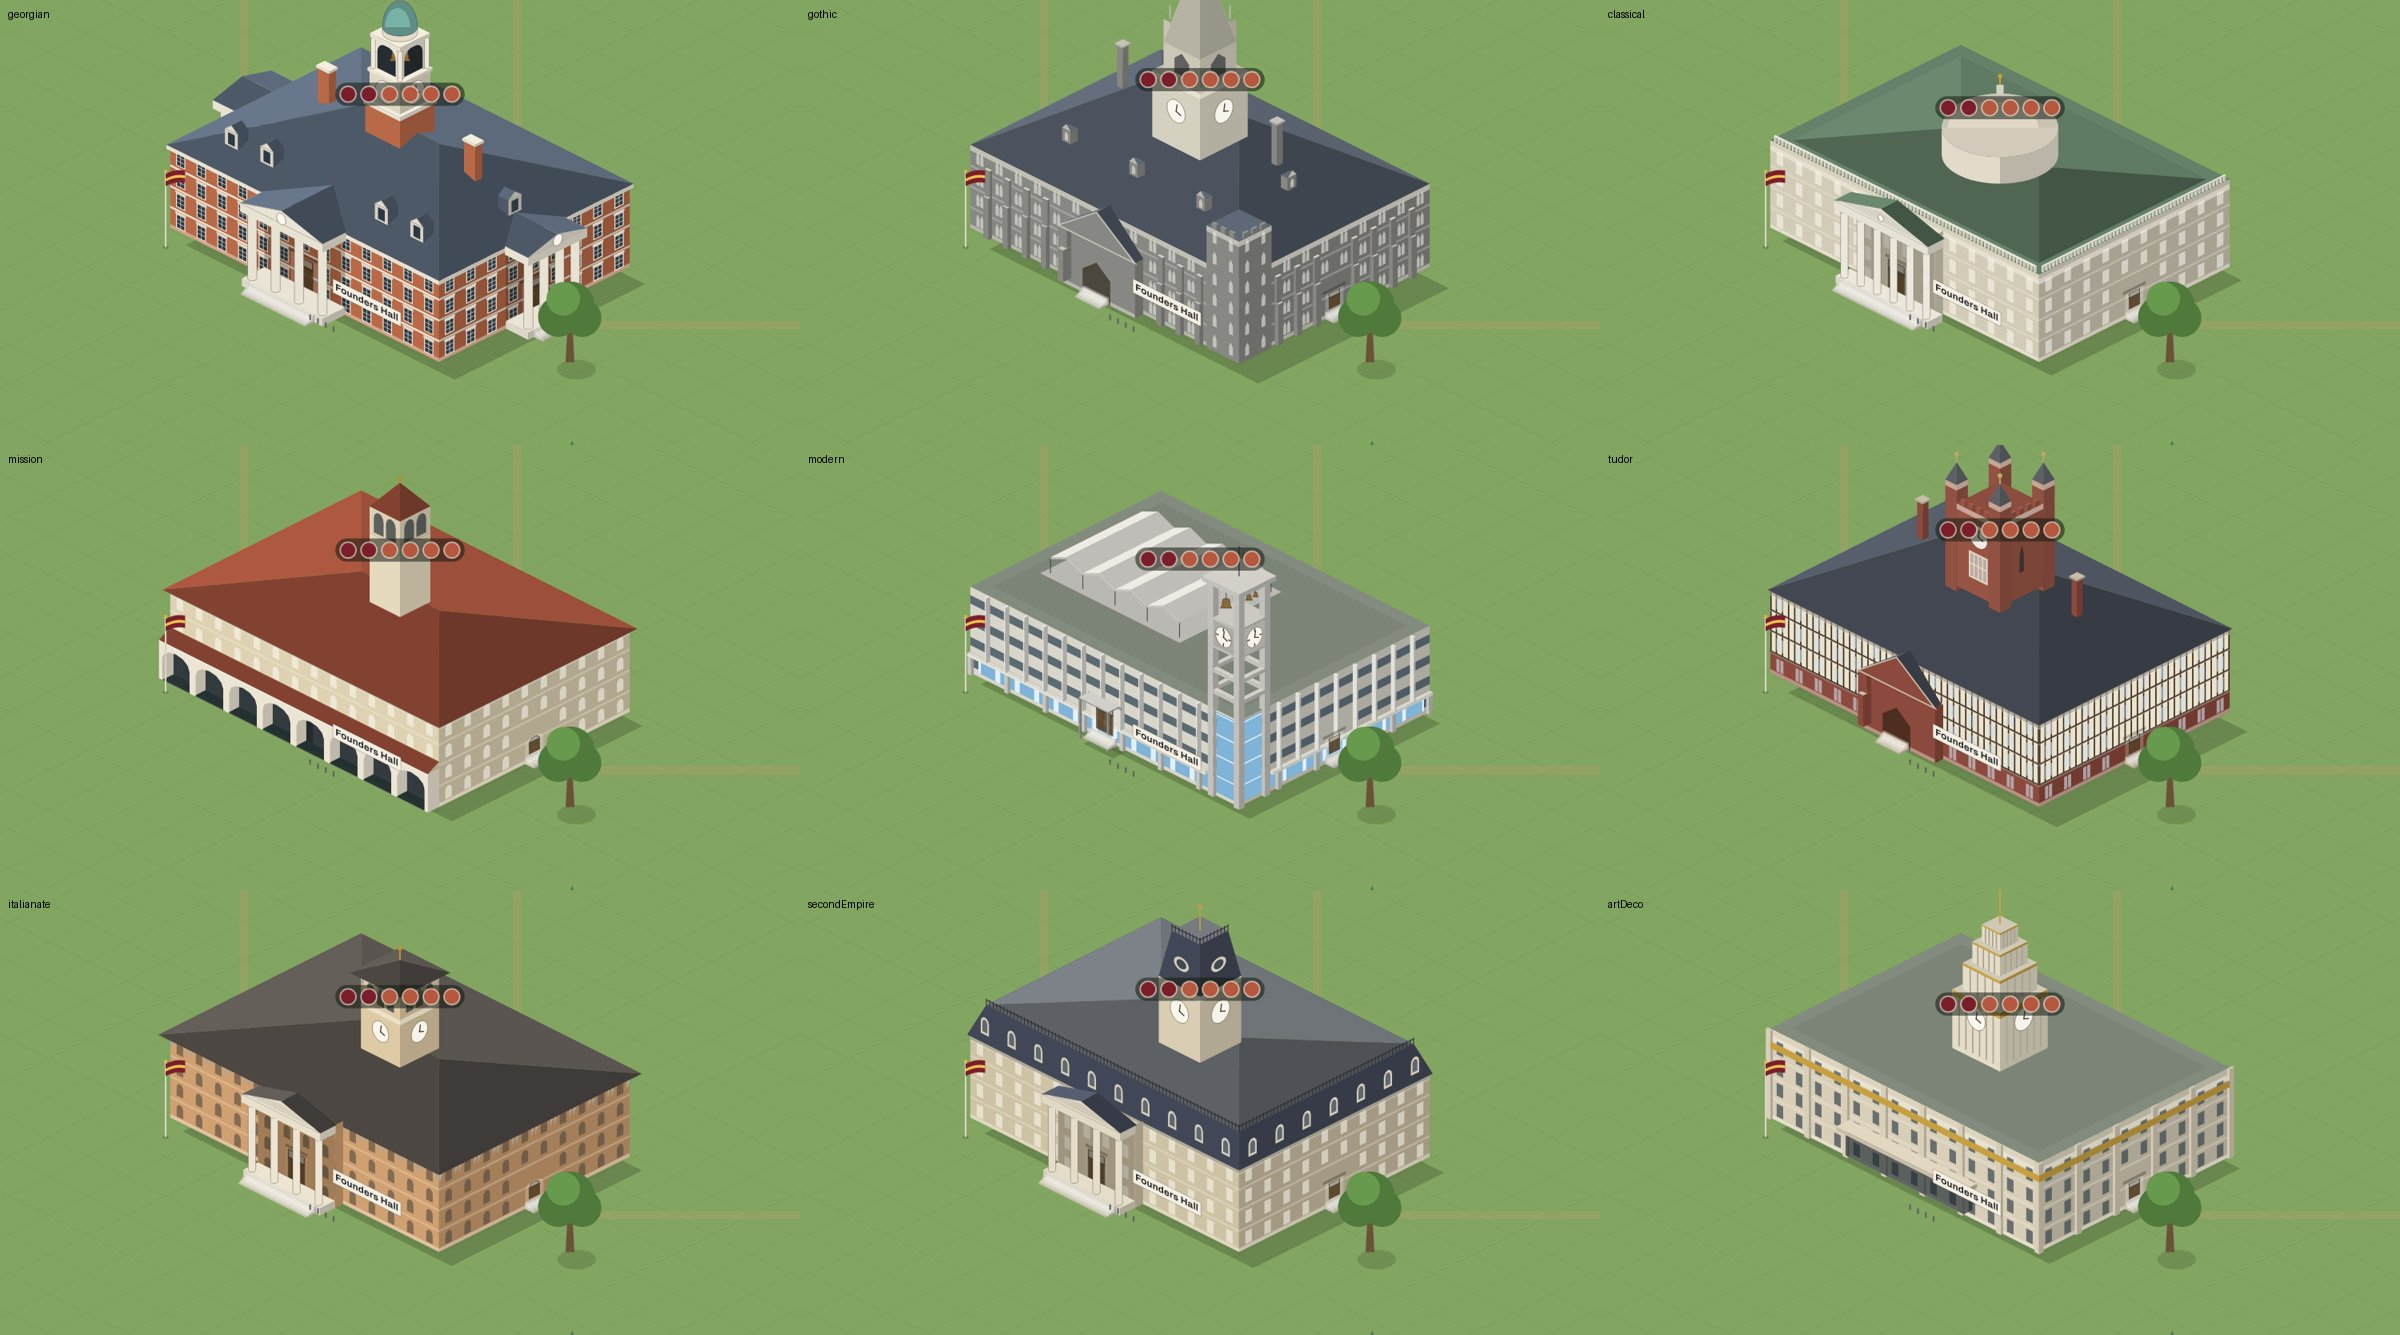
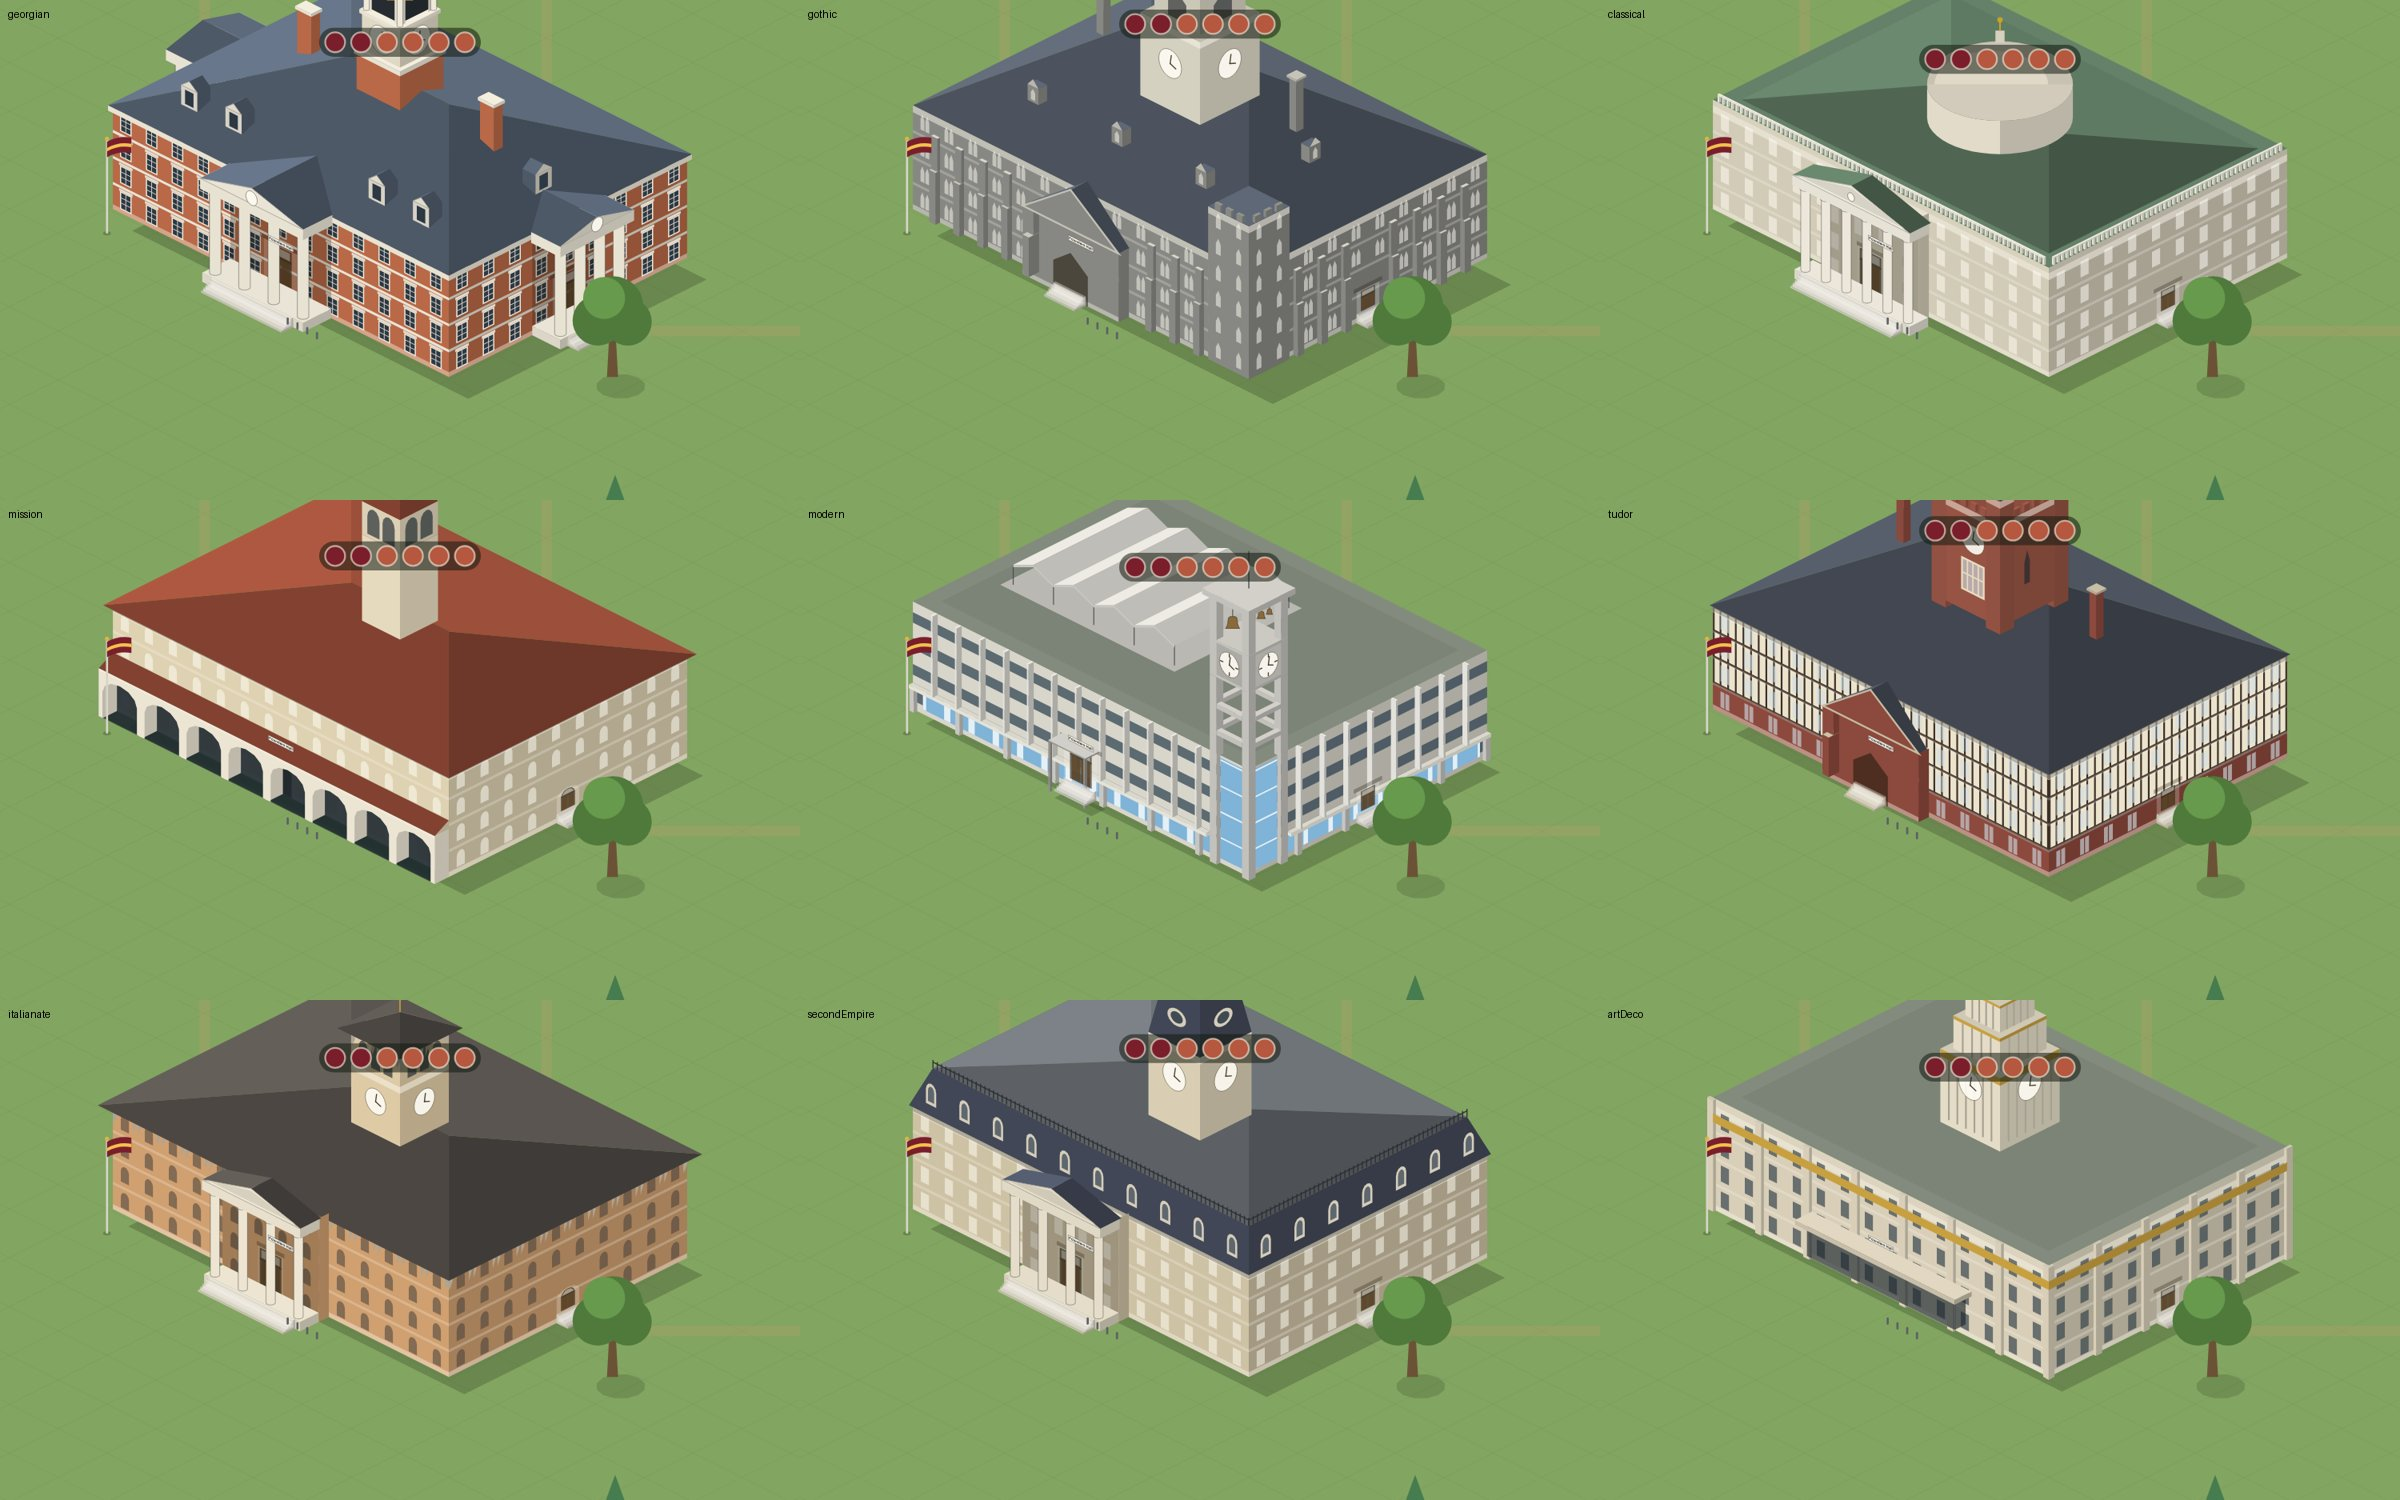
Plan 99D: the plate over the door, centred and small (the owner's call)
Claude-Session: https://claude.ai/code/session_016qdqgCsiwK5wDmUcnZF6yE

diff --git a/unischool/src/components/doorSign.tsx b/unischool/src/components/doorSign.tsx
@@ -4,8 +4,8 @@ import { doorOf, wallHeightOf } from './buildingSpec';
 import { sidesOf } from './facing';
 import type { Plot } from './facing';
 
-// Door signs (Plan 99D): a small plate on the wall beside a building's front
-// door, with its name. Drawn with the building, so it sorts with it and a
+// Door signs (Plan 99D): a small plate on the wall over a building's front
+// door, centred, with its name. Drawn with the building, so it sorts with it and a
 // building in front hides it; only on the front wall, and only while the
 // camera sees that wall. Buildings with no front door (open ground, the
 // stadium, the village, the landmarks: doorOf's null) get none.
@@ -20,9 +20,6 @@ export const SIGNS_FROM_ZOOM = 1.4;
 // The most characters a plate holds before its name is cut with an
 // ellipsis, and the plate's size in a wall's own units.
 export const SIGN_MAX_CHARS = 22;
-// Tiles between the door's edge and the plate: clear of a porch or a
-// portico's side where the wall has room, else close by the door.
-const SIGN_GAPS = [0.5, 0.15];
 const CHAR_WIDTH = 0.56;          // a character's width, in font sizes (the UI's sans)
 
 export function signText(name: string): string {
@@ -41,26 +38,24 @@ export default function DoorSign({ t, p, label }: { t: Buildable; p: Plot; label
   if (!wall.visible) return null;
   const span = front === 'posRow' || front === 'negRow' ? p.w : p.h;
   const text = signText(label);
-  // The letters at a third of the door's height; the plate a little larger.
-  const size = Math.max(3.2, door.height * 0.32);
-  const plateW = text.length * CHAR_WIDTH * size + size;
   const run = Math.hypot(wall.along.x - wall.origin.x, wall.along.y - wall.origin.y);
   if (run <= 0) return null;
+  // Small: a detail of the building, not something to read from afar (the
+  // owner, 13 October). No wider than the door, so it stays in the door's
+  // bay: between a portico's middle columns, under a porch's gable. Long
+  // names take smaller letters; the plate is a little larger than them.
+  const doorW = (Math.min(door.widthTiles / span, 0.6)) * run;
+  const size = Math.min(door.height * 0.12, (doorW * 1.15) / (text.length * CHAR_WIDTH + 0.8));
+  if (size < 0.8) return null; // too small to be a sign
+  const plateW = text.length * CHAR_WIDTH * size + size * 0.8;
   const uw = plateW / run;
-  // Beside the door, on the side nearer the screen's right.
-  const doorHalf = Math.min(door.widthTiles / span, 0.6) / 2;
-  const right = wall.along.x >= wall.origin.x;
-  const fits = (gap: number) => {
-    const near = 0.5 + doorHalf + gap / span;
-    const lo = right ? near : 1 - near - uw;
-    return lo >= 0.02 && lo + uw <= 0.98 ? lo : null;
-  };
-  const u0 = SIGN_GAPS.map(fits).find((u) => u !== null);
-  if (u0 === undefined || u0 === null) return null; // no room beside the door on this wall
-  const u1 = u0 + uw;
-  const vMid = (door.threshold + door.height * 0.55) / H;
-  const vh = (size * 1.5) / H / 2;
-  if (vMid + vh > 0.95) return null;
+  // Centred over the door, just above its head (the door is at the front's
+  // middle).
+  const u0 = 0.5 - uw / 2;
+  const u1 = 0.5 + uw / 2;
+  const vh = (size * 1.4) / H / 2;
+  const vMid = (door.threshold + door.height + size * 0.5) / H + vh;
+  if (vMid + vh > 0.97) return null; // no wall above the door for it
   const at = (u: number, v: number) => facePoint(wall.origin, wall.along, H, u, v);
   const a = at(u0, vMid - vh); const b = at(u1, vMid - vh); const c = at(u1, vMid + vh); const d = at(u0, vMid + vh);
   const mid = at((u0 + u1) / 2, vMid);

diff --git a/docs/plans/099-a-gazebo-and-door-signs.md b/docs/plans/099-a-gazebo-and-door-signs.md
@@ -207,13 +207,15 @@ Read against `main` at `9cec56b` plus PR #341.
   building's own drawing, so it depth-sorts with it and a building in
   front hides it. Both maps draw it: the canvas map walks the same element
   tree. It's not in the build-menu thumbnails.
-- **Where on the wall:** the front wall (`sidesOf(facing).front`, by
-  `wallOf`), only while the camera sees it. It sits half a tile clear of
-  the door's edge, so it clears most porches and portico sides, else just
-  beside the door. It goes on the side toward the screen's right, at the
-  door's mid-height, sheared to the wall's slope like the chapter
-  houses' letters. A wall with no room for it gets none, and a building
-  with no front door (`doorOf`'s null) never does.
+- **Where on the wall:** centred over the front door, just above its head
+  (the owner, 13 October: "over the door, centered"). It goes on the front
+  wall (`sidesOf(facing).front`, by `wallOf`), only while the camera sees
+  it, sheared to the wall's slope like the chapter houses' letters. It's
+  no wider than the door, so it stays in the door's bay, between a
+  portico's middle columns or under a porch's gable. A wall with no room
+  above the door gets none, and a building with no front door (`doorOf`'s
+  null) never does. A first version sat beside the door at a readable
+  size, and was moved.
 - **Zoom** (decision 5): the plates are always in the drawing, and CSS
   hides them below `SIGNS_FROM_ZOOM` (1.4).
   - `CampusMap` puts the `signs` class on the map once the view crosses
@@ -229,7 +231,9 @@ Read against `main` at `9cec56b` plus PR #341.
   budget.
 - **Text** (decision 6): the label the map already uses (`hallDisplayName`,
   a donor's name as it stands), cut to 22 characters with an ellipsis.
-  The letters are a third of the door's height. `door-sign.test.ts` runs
+  The letters are small, at most an eighth of the door's height, and
+  smaller for a long name, so the plate fits over the door. The owner:
+  "it's a detail, not information the player actually needs to read."  `door-sign.test.ts` runs
   every catalogue name and the longest donor name (the longest surname
   with the longest school), and checks which buildings are signed.
 - **The building labels** (Plan 47) are unchanged.
